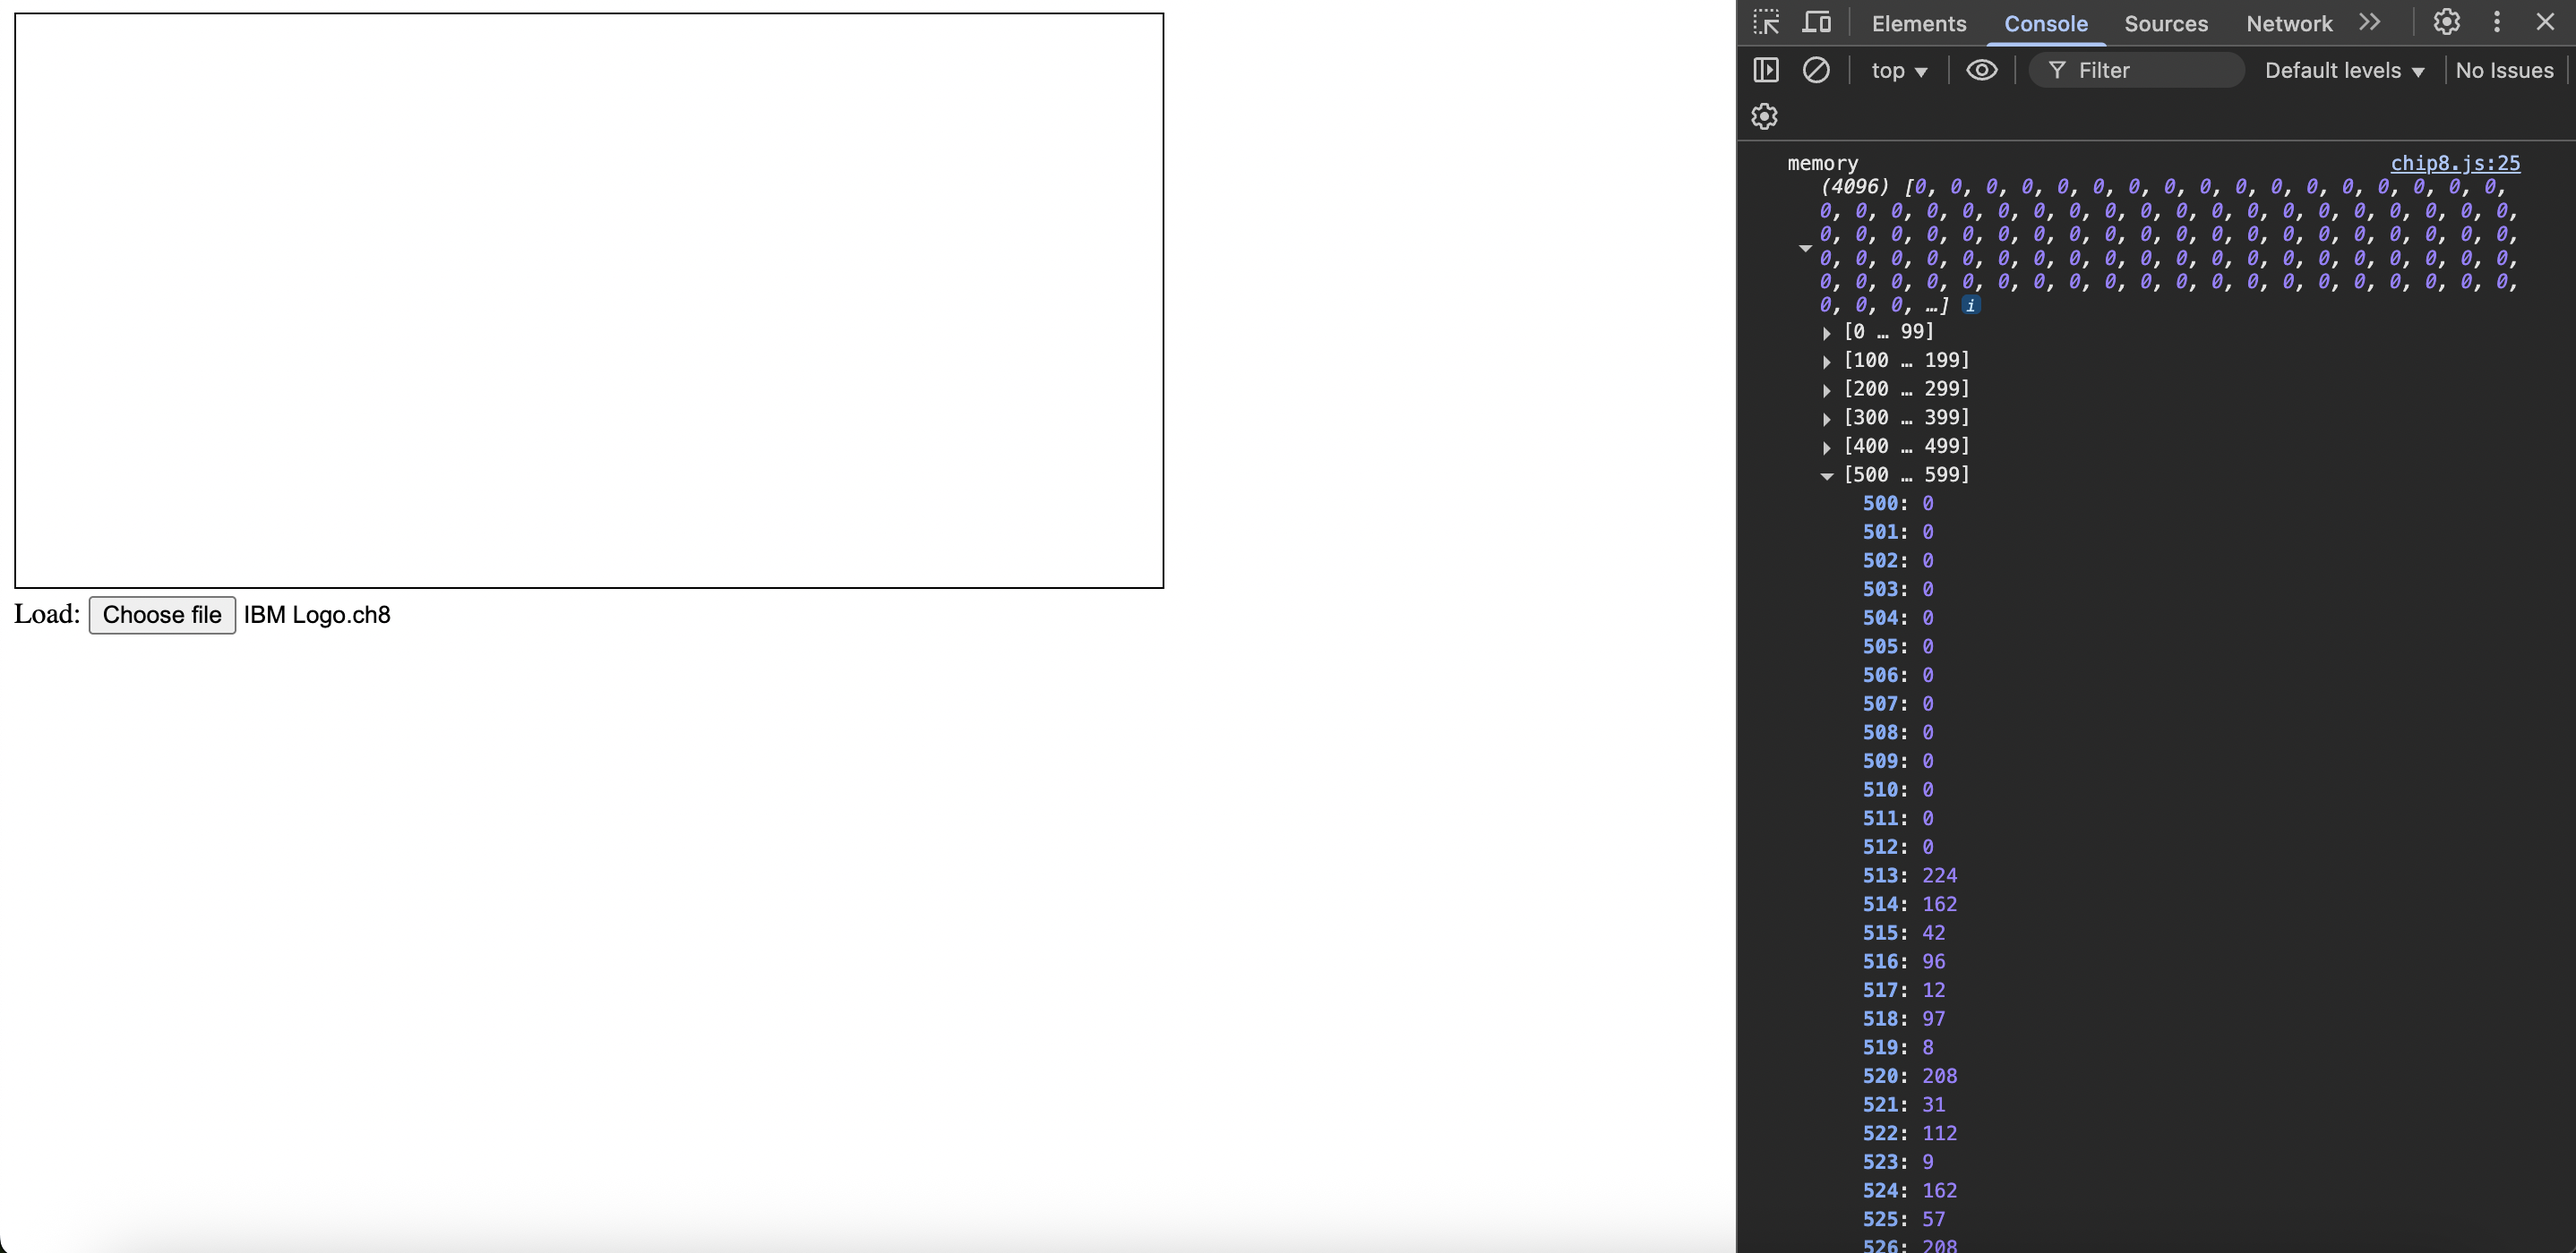
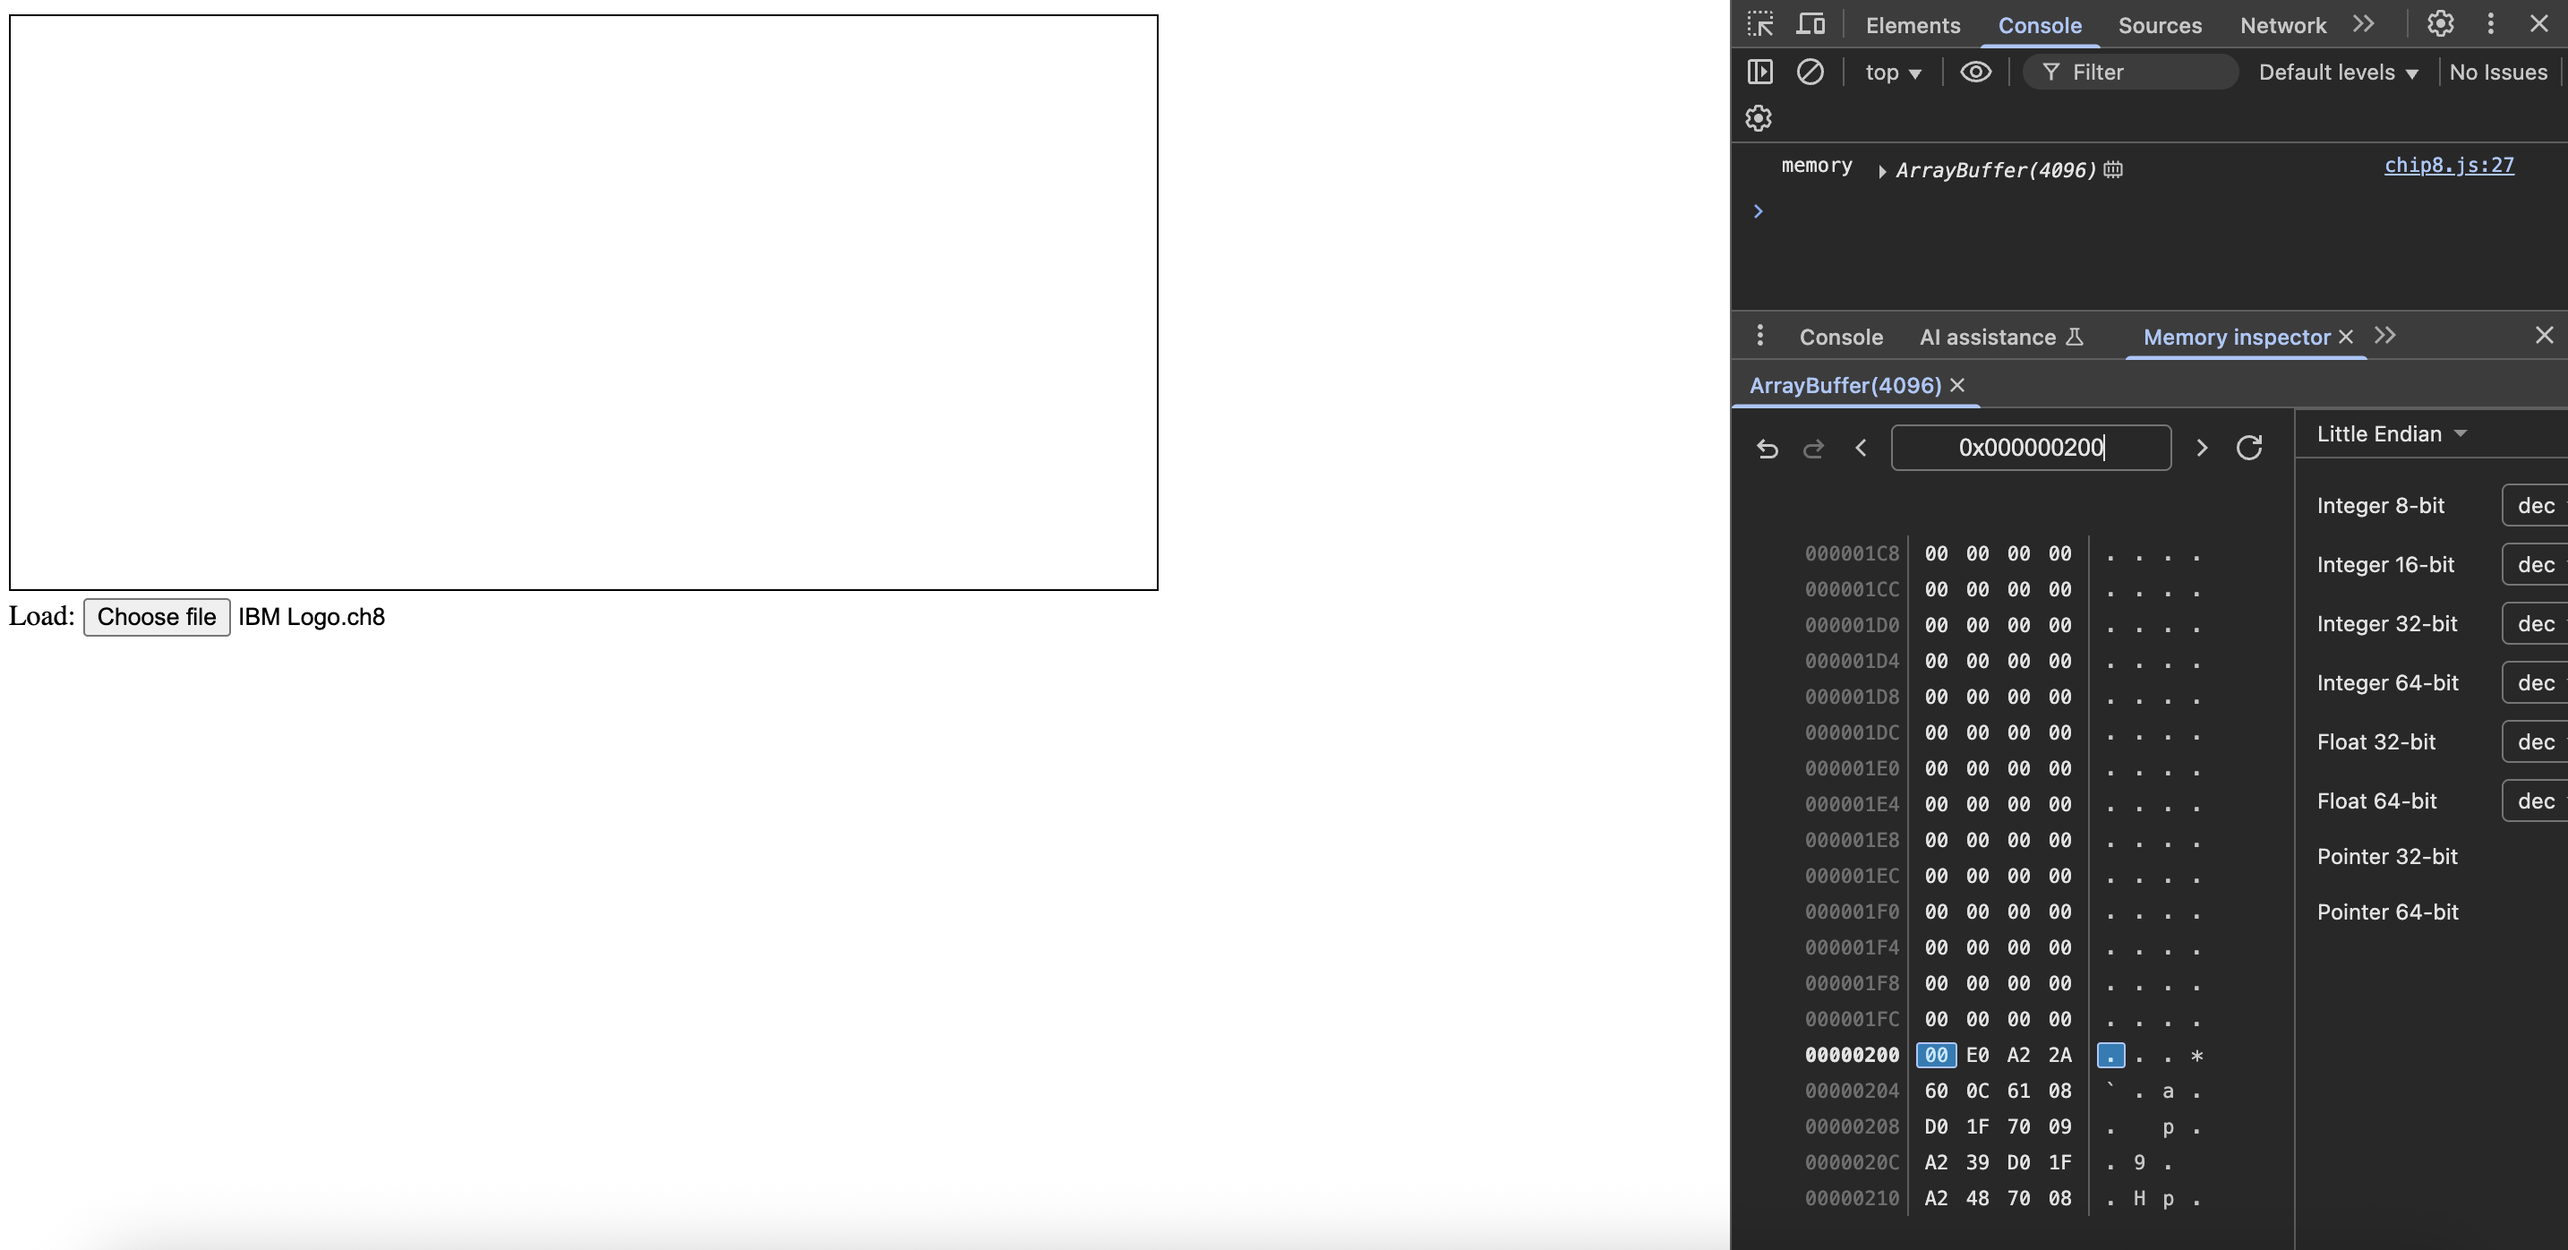
feat: use ArrayBuffer as memory

diff --git a/chip8-js/chip8.js b/chip8-js/chip8.js
@@ -4,25 +4,32 @@ const MEMORY_SIZE = 4096;
 const PROG_START = 0x200;
 
 class Chip8 {
-    pc = 0;
+    pc = PROG_START;
     i = 0;
     sp = 0;
     dt = 0;
     st = 0;
-    v = Array(V_REG_COUNT).fill(0);
-    stack = Array(STACK_SIZE).fill(0);
-    memory = Array(MEMORY_SIZE).fill(0);
+    v = new Array(V_REG_COUNT).fill(0);
+    stack = new Array(STACK_SIZE).fill(0);
+    memory = new ArrayBuffer(MEMORY_SIZE);
+
+    constructor() {
+        this.view = new DataView(this.memory);
+    }
 
     /**
      * Loads program into memory
      * @param {Uint8Array} bytes 
      */
     load(bytes) {
-        bytes.forEach((byte, index) => {
-            const offset = PROG_START + index;
-            this.memory[offset] = byte;
-        })
+        const memory = new Uint8Array(this.memory);
+        memory.set(bytes, PROG_START);
         console.log('memory', this.memory);
+    }
+
+    fetch() {
+        const instruction = this.view.getUint16(this.pc);
+        console.log('instruction', instruction.toString(16));
     }
 }
 

diff --git a/writeup/2.starting-out.md b/writeup/2.starting-out.md
@@ -56,9 +56,9 @@ class Chip8 {
     sp = 0;
     dt = 0;
     st = 0;
-    v = Array(V_REG_COUNT).fill(0);
-    stack = Array(STACK_SIZE).fill(0);
-    memory = Array(MEMORY_SIZE).fill(0);
+    v = new Array(V_REG_COUNT).fill(0);
+    stack = new Array(STACK_SIZE).fill(0);
+    memory = new ArrayBuffer(MEMORY_SIZE);
 }
 
 export default Chip8;
@@ -93,6 +93,8 @@ and import it within our `index.html`.
 Note! At this point you will need to be serving your index.html via a web server (I am using LiveServer inside VS Code) for it to work as expected, due to CORS. 
 
 We will be creating our emulator within our `chip8.js` file and the script that imports the emulator and binds it's features to controls within our frontend via `index.js`. 
+
+You may notice that I've modelled the memory using an ArrayBuffer. This was originally an array like the others but in the next chapter and beyond we will sometimes need to view the memory as containing 16-bit instructions, and other times as containing 8-bit data. Using an ArrayBuffer allows us to switch between these views very easily. 
 
 You should see the console message "V4 0" when opening the page now. This means success! We have the starting point of our emulator and can begin viewing details etc inside the browser. 
 

diff --git a/writeup/3.loading-a-program.md b/writeup/3.loading-a-program.md
@@ -66,19 +66,17 @@ class Chip8 {
     sp = 0;
     dt = 0;
     st = 0;
-    v = Array(V_REG_COUNT).fill(0);
-    stack = Array(STACK_SIZE).fill(0);
-    memory = Array(MEMORY_SIZE).fill(0);
+    v = new Array(V_REG_COUNT).fill(0);
+    stack = new Array(STACK_SIZE).fill(0);
+    memory = new ArrayBuffer(MEMORY_SIZE);
 
     /**
      * Loads program into memory
      * @param {Uint8Array} bytes 
      */
     load(bytes) {
-        bytes.forEach((byte, index) => {
-            const offset = PROG_START + index;
-            this.memory[offset] = byte;
-        })
+        const memory = new Uint8Array(this.memory);
+        memory.set(bytes, PROG_START);
         console.log('memory', this.memory);
     }
 }
@@ -111,6 +109,5 @@ filePicker.addEventListener('change', handleFileSelection);
 Now when we load our program we should see:
 
 ![Memory in the console.](./images/loading-a-program/console-memory.png "Memory in the console.")
-*Remember 0x200 is 512 in decimal*
 
-So it looks like we have some bytes loaded into our internal memory. Next we have to start processing some instructions.
+So it looks like we have some bytes loaded into our internal memory! Next we have to start processing some instructions.
